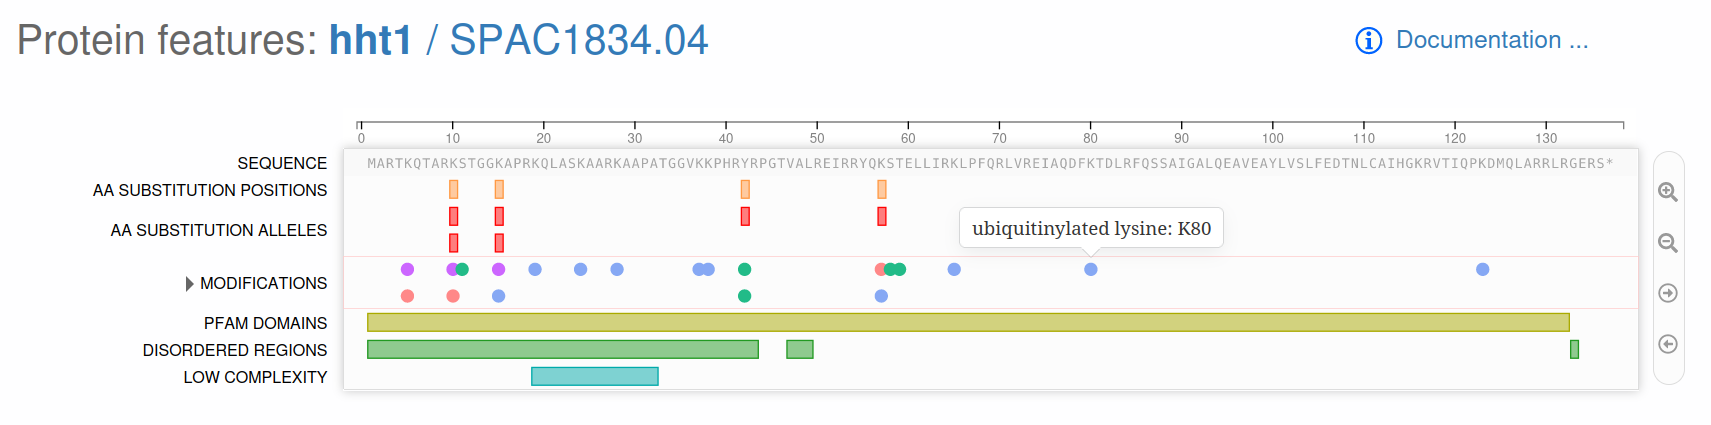
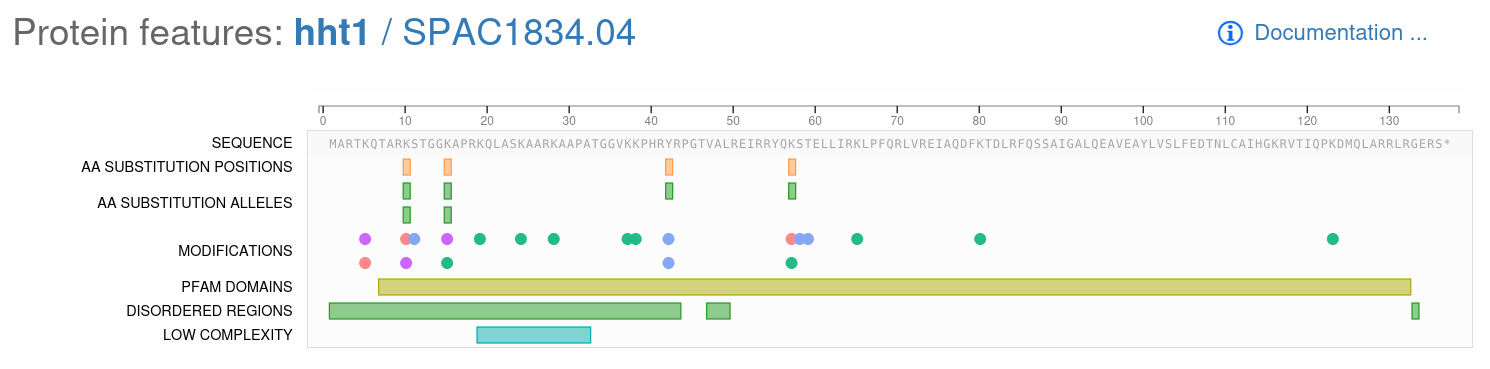
Update docs for the protein feature viewer
New screenshots.

Refs pombase/website#2249

diff --git a/src/docs/documentation/gene-page-protein-features-widget.md b/src/docs/documentation/gene-page-protein-features-widget.md
@@ -14,14 +14,14 @@ description of the track.
   - **AA substitution alleles** curated amino acid substitution alleles (available only in the full view) 
   - **Partial deletions** curated alleles with partial amino acid deletions (full view only)
   - **Modifications** curated modified residues coloured by modification type:
-    - <div style="background-color: #86a8f4;" class="docs-colour-block">&nbsp;</div> - N6-acylated L-lysine
+    - <div style="background-color: #2b8;" class="docs-colour-block">&nbsp;</div> - N6-acylated L-lysine
     - <div style="background-color: #d2d27e;" class="docs-colour-block">&nbsp;</div> - lipoconjugated residue
     - <div style="background-color: #f88;" class="docs-colour-block">&nbsp;</div> - N-acetylated residue
-    - <div style="background-color: #2b8;" class="docs-colour-block">&nbsp;</div> - phosphorylated residue
+    - <div style="background-color: #86a8f4;" class="docs-colour-block">&nbsp;</div> - phosphorylated residue
     - <div style="background-color: #c6f;" class="docs-colour-block">&nbsp;</div> - methylated residue
     - <div style="background-color: #d6009e;" class="docs-colour-block">&nbsp;</div> - glycoconjugated residue
     - <div style="background-color: #ff9943;" class="docs-colour-block">&nbsp;</div> - modified L-cysteine residue
-    - <div style="background-color: #666;" class="docs-colour-block">&nbsp;</div> - default
+    - <div style="background-color: #666;" class="docs-colour-block">&nbsp;</div> - other modifications
   - **Pfam families** Pfam protein familes from [InterPro](https://www.ebi.ac.uk/interpro/)
   - **TM domains** Trans-membrane domains calculated with TMHMM (Krogh et al. 2001)
   - **Disordered regions** Disordered regions from Pfam version 34.0 (El-Gebali et al. 2019)
